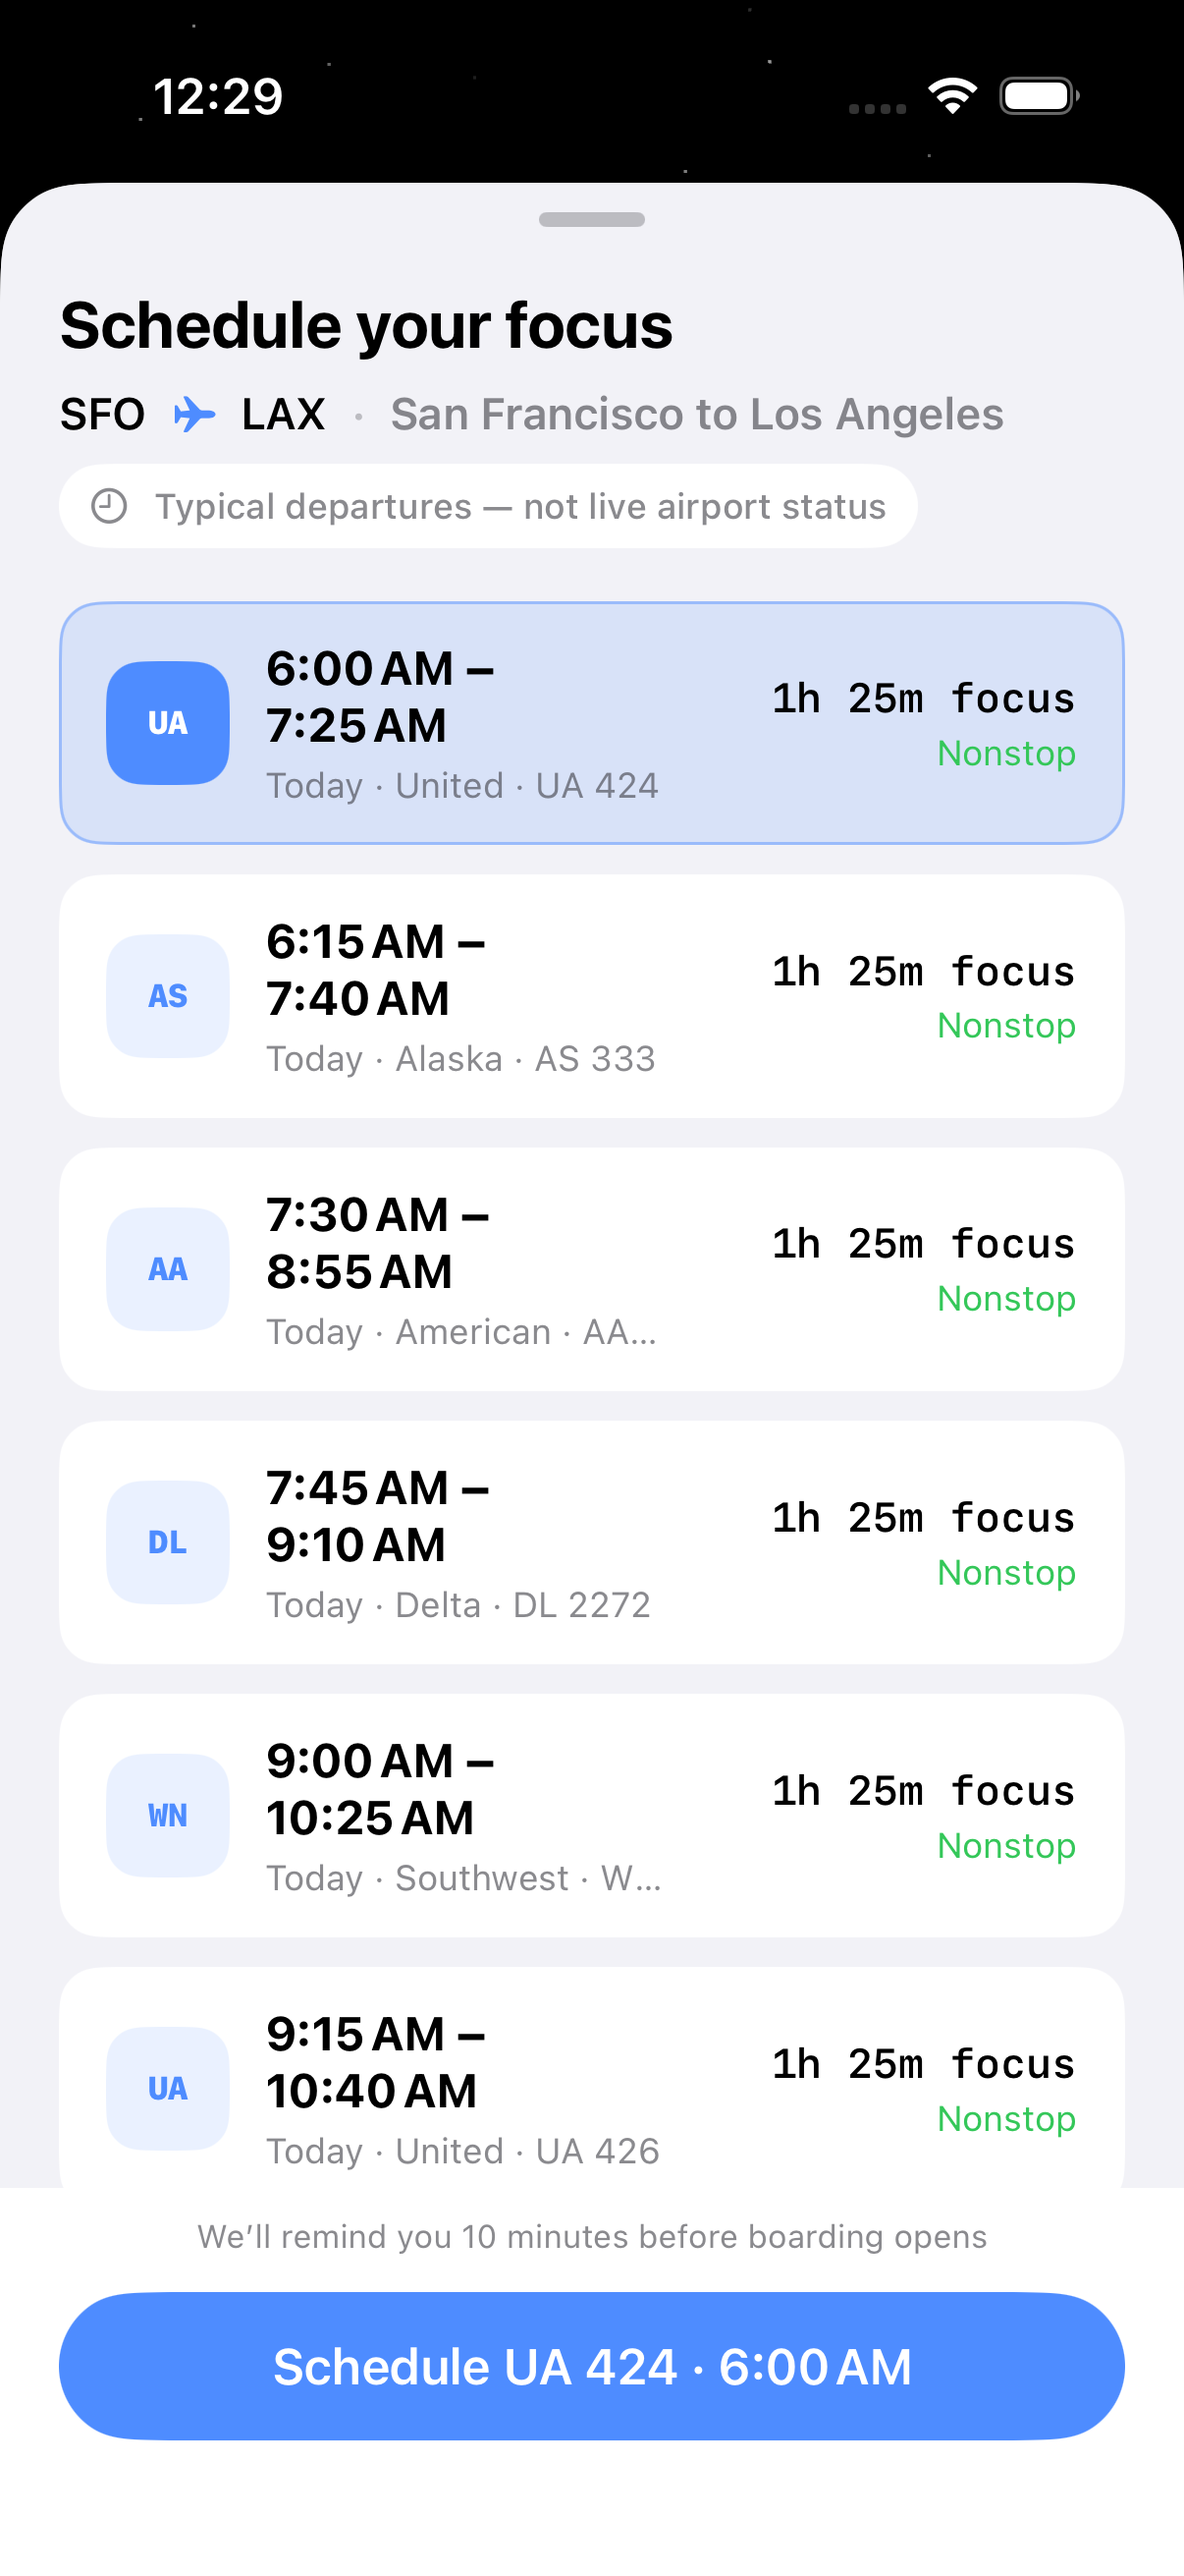
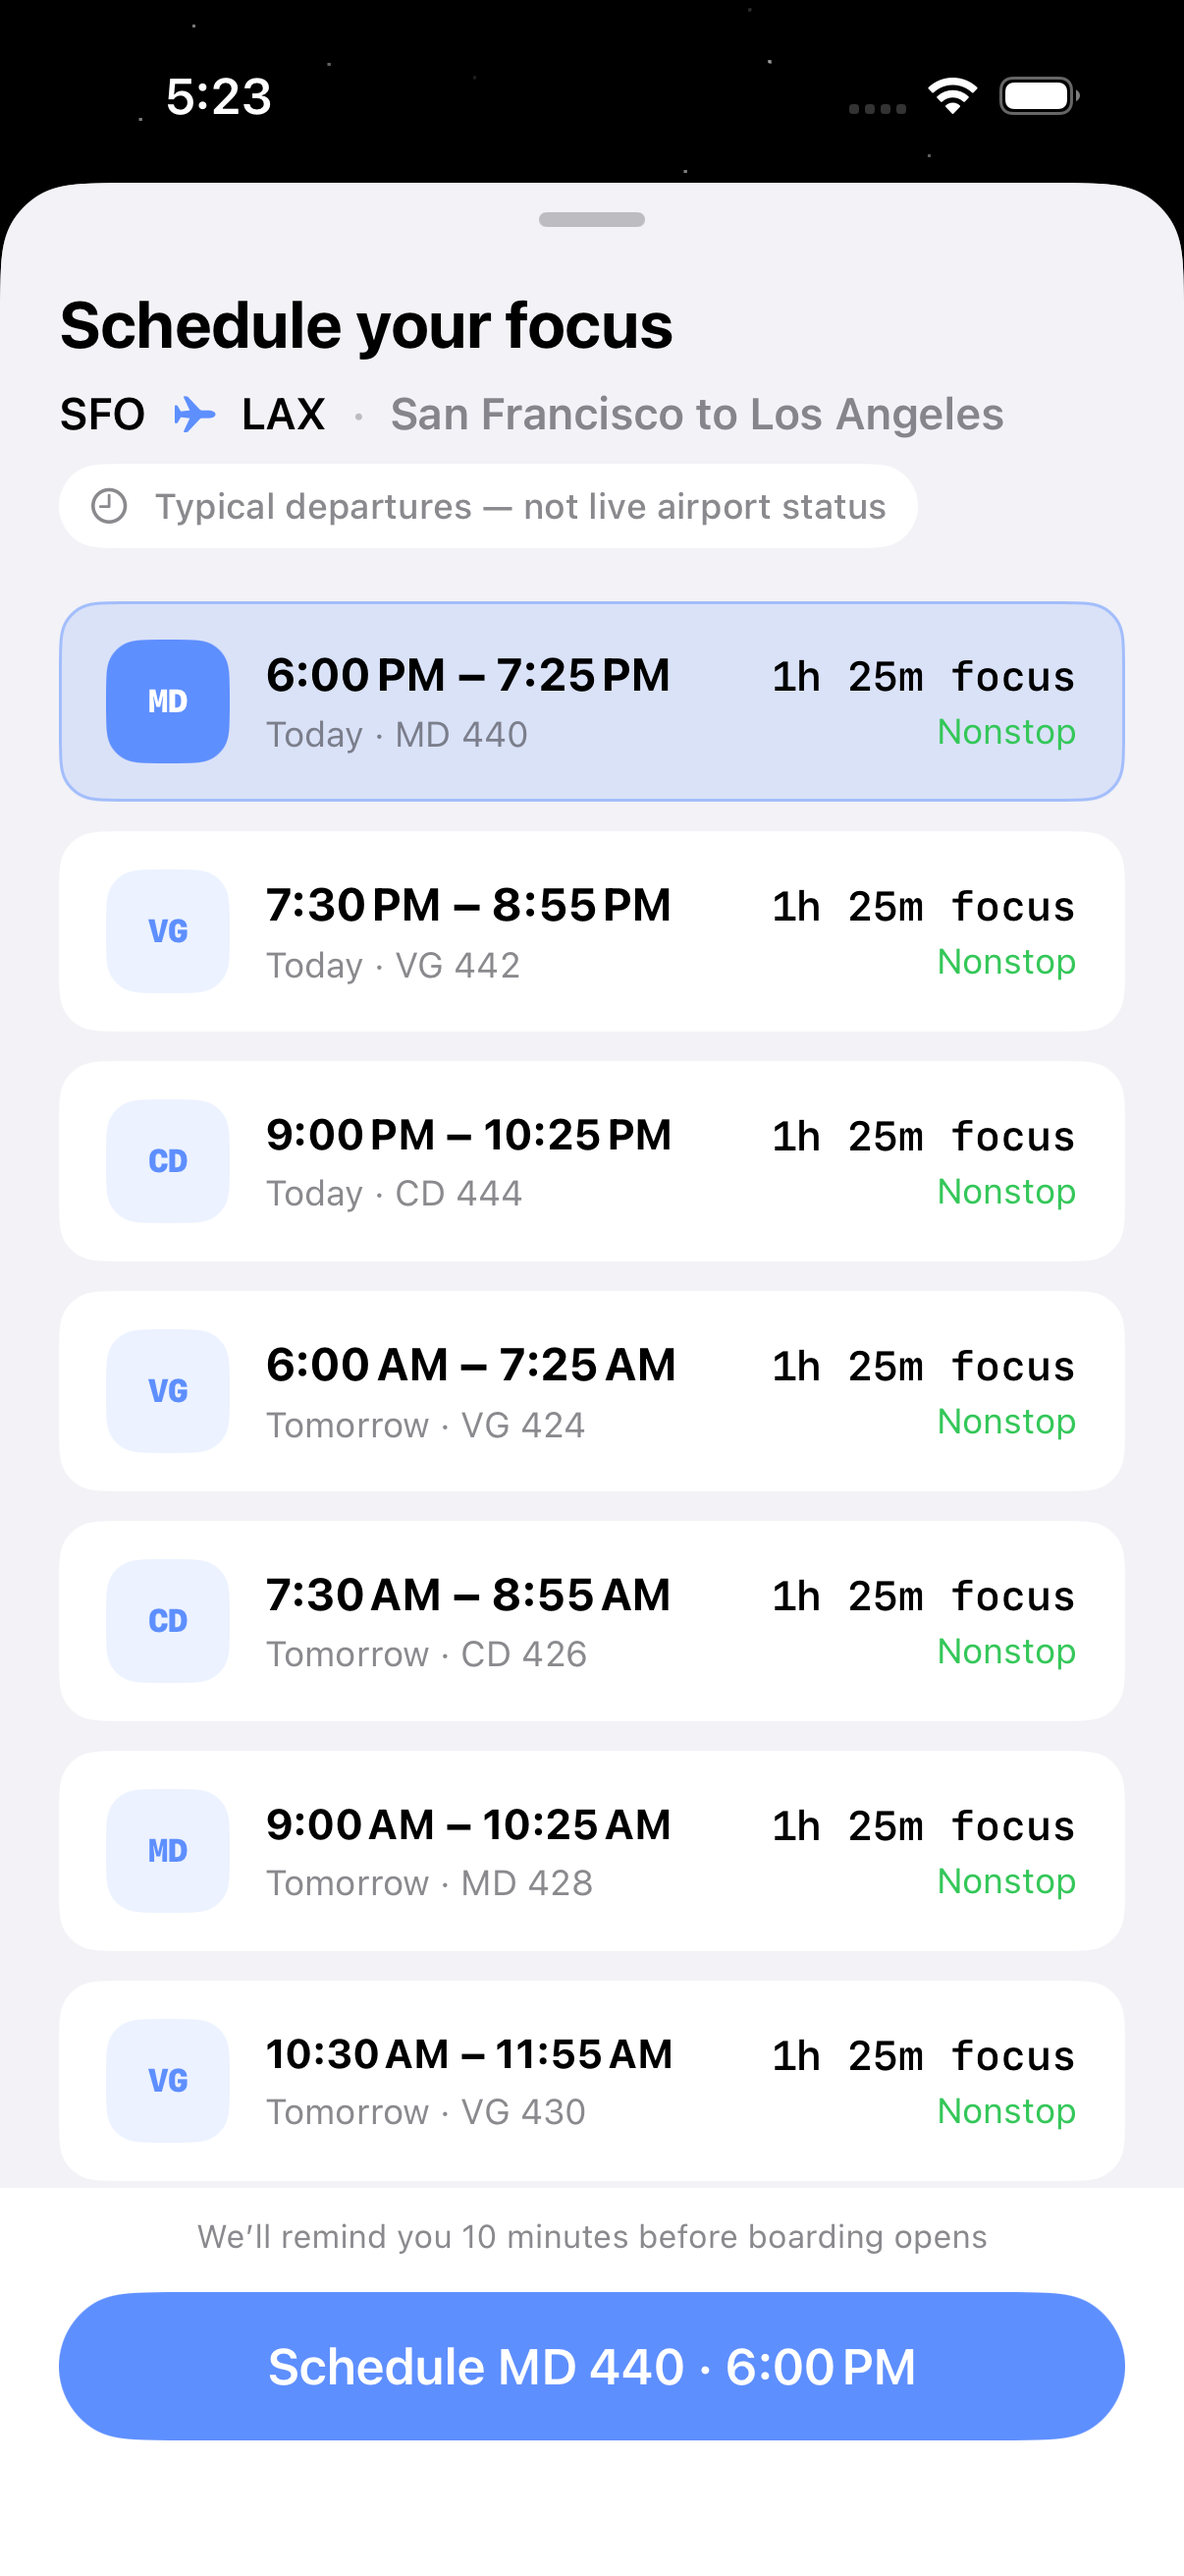
Home: a rotating greeting each launch
The empty-state header was a fixed "Where to today?". It now draws a fresh
line from a pool of fourteen every time Home is built, blending a calm
welcome, a little wit, and a push to start, and never repeating the previous
launch (the last index is remembered across launches). The line underneath
stays fixed and carries the actual explanation, so a first-time viewer always
sees what tapping a destination does. No em-dashes in any of the copy.

diff --git a/Voyage/Views/Home/HomeGreeting.swift b/Voyage/Views/Home/HomeGreeting.swift
@@ -1,0 +1,46 @@
+import Foundation
+
+/// The Home screen greets you with a different line every time it opens. The
+/// pool blends three registers on purpose: calm welcomes, a little wit, and a
+/// push to start, so the rotation feels human instead of one scripted voice.
+/// The fixed subtitle underneath carries the actual explanation, which frees
+/// these to be short. No em-dashes: the copy reads like plain documentation.
+enum HomeGreeting {
+    static let lines: [String] = [
+        "Where to today?",
+        "Pick a place to focus.",
+        "Ready when you are.",
+        "Somewhere new today?",
+        "Clear skies ahead.",
+        "Let's fly.",
+        "Chasing a horizon?",
+        "Time to focus.",
+        "Pick a runway.",
+        "Good to see you.",
+        "Window seat today?",
+        "Make it count.",
+        "Wheels up when you are.",
+        "The world is open."
+    ]
+
+    /// The one line shown beneath the greeting. It stays put while the greeting
+    /// rotates, so a first-time viewer always sees what tapping a place does.
+    static let subtitle = "Pick a destination. Its real flight time becomes your focus session."
+
+    private static let lastIndexKey = "homeGreetingLastIndex"
+
+    /// A line chosen at random, never the one shown last launch, so two opens in
+    /// a row never repeat. The chosen index is remembered across launches.
+    static func next(defaults: UserDefaults = .standard) -> String {
+        guard lines.count > 1 else { return lines.first ?? "" }
+        let last = defaults.object(forKey: lastIndexKey) as? Int
+        var index = Int.random(in: 0..<lines.count)
+        if let last {
+            // Re-roll off the previous line by walking a random step forward,
+            // which is uniform over the remaining lines and never loops.
+            while index == last { index = (index + Int.random(in: 1..<lines.count)) % lines.count }
+        }
+        defaults.set(index, forKey: lastIndexKey)
+        return lines[index]
+    }
+}

diff --git a/VoyageTests/HomeGreetingTests.swift b/VoyageTests/HomeGreetingTests.swift
@@ -1,0 +1,35 @@
+import XCTest
+@testable import Voyage
+
+final class HomeGreetingTests: XCTestCase {
+    private func freshDefaults() -> UserDefaults {
+        let suite = "HomeGreetingTests.\(UUID().uuidString)"
+        let defaults = UserDefaults(suiteName: suite)!
+        defaults.removePersistentDomain(forName: suite)
+        return defaults
+    }
+
+    func testNeverRepeatsThePreviousLaunch() {
+        let defaults = freshDefaults()
+        var previous = HomeGreeting.next(defaults: defaults)
+        // Many draws in a row must never match the immediately preceding one.
+        for _ in 0..<500 {
+            let line = HomeGreeting.next(defaults: defaults)
+            XCTAssertNotEqual(line, previous, "greeting repeated back to back")
+            previous = line
+        }
+    }
+
+    func testEveryLineIsReachable() {
+        let defaults = freshDefaults()
+        var seen = Set<String>()
+        for _ in 0..<2_000 { seen.insert(HomeGreeting.next(defaults: defaults)) }
+        XCTAssertEqual(seen, Set(HomeGreeting.lines), "some greeting never appeared")
+    }
+
+    func testCopyHasNoEmDashes() {
+        for line in HomeGreeting.lines + [HomeGreeting.subtitle] {
+            XCTAssertFalse(line.contains("\u{2014}"), "em-dash in \(line)")
+        }
+    }
+}

diff --git a/Voyage/Views/Home/HomeView.swift b/Voyage/Views/Home/HomeView.swift
@@ -25,6 +25,9 @@ struct HomeView: View {
     @State private var showingLogbook = false
     @State private var showingSettings = false
     @State private var nowTick = Date()
+    /// A fresh line each time Home is built, i.e. every launch. Picked once so
+    /// it stays put while you browse, and never repeats the previous launch.
+    @State private var greeting = HomeGreeting.next()
 
     private let clock = Timer.publish(every: 1, on: .main, in: .common).autoconnect()
 
@@ -345,11 +348,12 @@ struct HomeView: View {
                 routeSummary(itinerary)
             } else {
                 VStack(spacing: 3) {
-                    Text("Where to today?")
+                    Text(greeting)
                         .font(.headline)
-                    Text("Pick a destination — its real flight time sets your session")
+                    Text(HomeGreeting.subtitle)
                         .font(.caption)
                         .foregroundStyle(.white.opacity(0.72))
+                        .multilineTextAlignment(.center)
                 }
                 .foregroundStyle(.white)
                 .shadow(color: .black.opacity(0.6), radius: 3)
